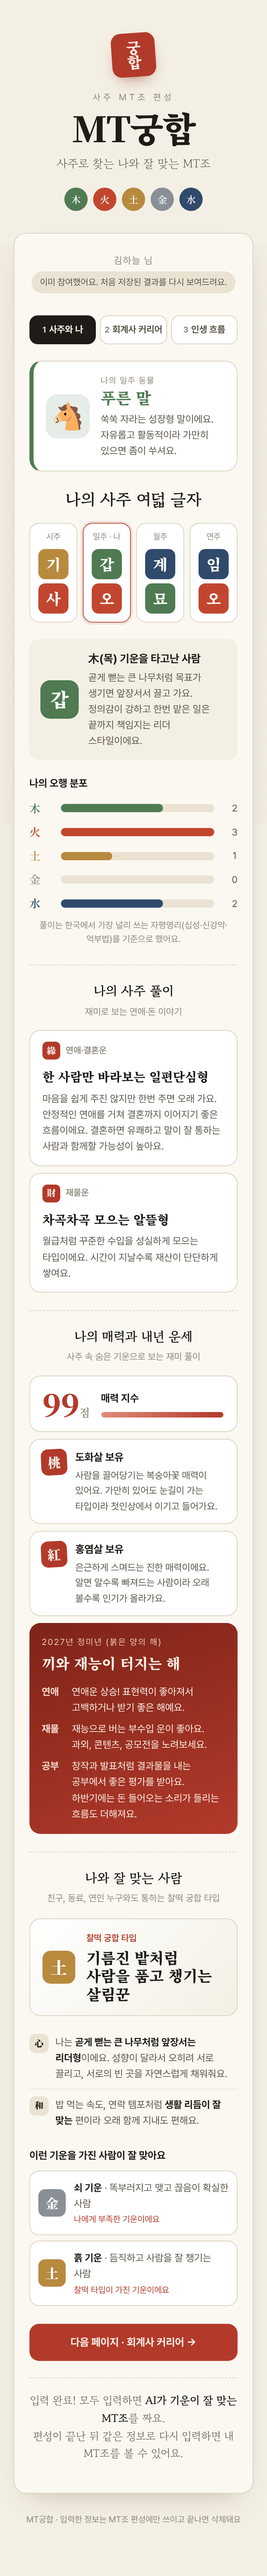
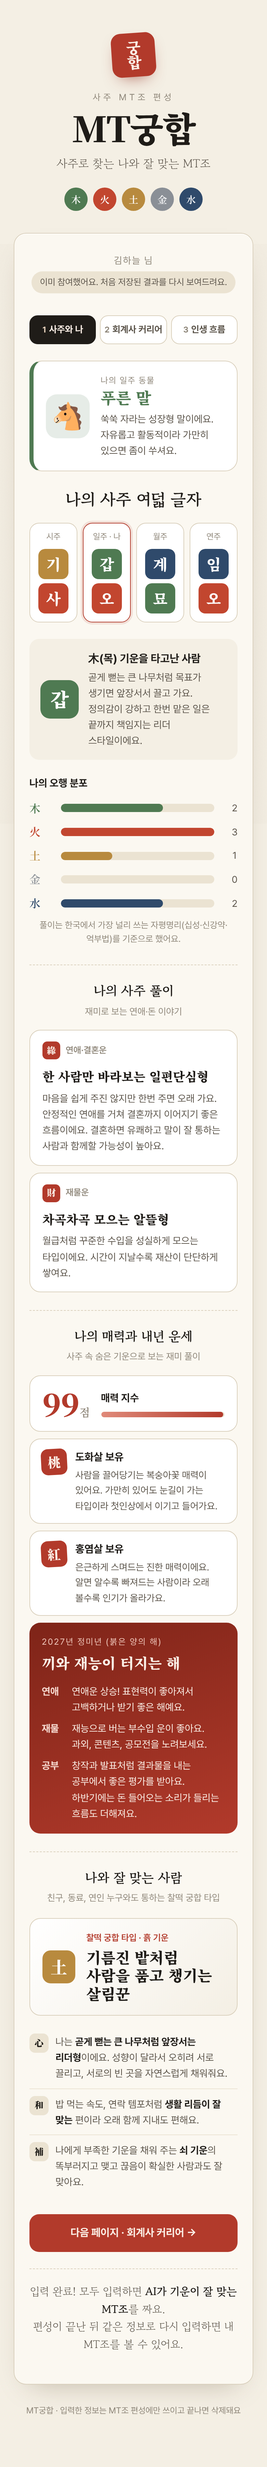
'나와 잘 맞는 사람'과 '이런 기운을 가진 사람' 합치기
찰떡 타입 하나로 보여 주고, 부족한 기운은 겹치지 않을 때만 한 줄 더한다

Claude-Session: https://claude.ai/code/session_012bKZfKrCyZ1atjBTGebht7

Changed region(s): [[0.0923, 0.0, 0.8923, 0.9669], [0.1231, 0.3119, 0.1538, 0.3743], [0.8615, 0.3119, 0.8923, 0.3431]]

diff --git a/public/index.html b/public/index.html
@@ -873,14 +873,15 @@
       const ending = last % 28 ? '이에요' : '예요';
       const theirType = DAY_MASTER_TEXT[m.stem];
 
-      // 잘 맞는 기운: 내게 부족한 기운 → 찰떡 타입의 기운 순으로, 중복 없이. 친구·동료·연인 모두에게 통하도록 연인 기운은 쓰지 않는다.
-      const picks = [];
-      const add = (el, why) => {
-        const found = picks.find((p) => p.el === el);
-        if (found) found.why.push(why); else picks.push({ el, why: [why] });
-      };
-      m.lacking.forEach((el) => add(el, '나에게 부족한 기운이에요'));
-      add(m.stemElement, '찰떡 타입이 가진 기운이에요');
+      // 찰떡 타입 하나로 합쳐 보여 준다. 내게 부족한 기운은 찰떡 타입과 겹치지 않을 때만 한 줄 더한다.
+      // 친구·동료·연인 모두에게 통하도록 연인 기운은 쓰지 않는다.
+      const lacking = m.lacking.filter((el) => el !== m.stemElement);
+      const lackLine = m.lacking.includes(m.stemElement)
+        ? `<li><span class="icon">補</span><span>찰떡 타입이 가진 <b>${ELEMENT_PERSON[m.stemElement][0]} 기운</b>은 마침 나에게 부족한 기운이라, 곁에 있으면 내 빈 곳이 채워져요.</span></li>`
+        : '';
+      const lackOthers = lacking.length
+        ? `<li><span class="icon">補</span><span>${lackLine ? '그 밖에 ' : ''}나에게 부족한 기운을 채워 주는 ${lacking.map((el) => `<b>${ELEMENT_PERSON[el][0]} 기운</b>의 ${ELEMENT_PERSON[el][1]}`).join('이나 ')}과도 잘 맞아요.</span></li>`
+        : '';
 
       document.getElementById('match').innerHTML = `
         <h3>나와 잘 맞는 사람</h3>
@@ -888,21 +889,14 @@
         <div class="match-hero">
           <div class="chars"><span class="char" style="background:${COLOR[m.stemElement]}">${HANJA[m.stemElement]}</span></div>
           <div>
-            <div class="nick">찰떡 궁합 타입</div>
+            <div class="nick">찰떡 궁합 타입 · ${ELEMENT_PERSON[m.stemElement][0]} 기운</div>
             <div class="name">${theirType}</div>
           </div>
         </div>
         <ul class="reasons">
           <li><span class="icon">心</span><span>나는 <b>${myType}</b>${ending}. 성향이 달라서 오히려 서로 끌리고, 서로의 빈 곳을 자연스럽게 채워줘요.</span></li>
           <li><span class="icon">和</span><span>밥 먹는 속도, 연락 템포처럼 <b>생활 리듬이 잘 맞는</b> 편이라 오래 함께 지내도 편해요.</span></li>
-        </ul>
-        <h4 class="pick-title">이런 기운을 가진 사람이 잘 맞아요</h4>
-        <ul class="picks">
-          ${picks.map(({ el, why }) => `
-            <li>
-              <span class="char" style="background:${COLOR[el]}">${HANJA[el]}</span>
-              <span><b>${ELEMENT_PERSON[el][0]} 기운</b> · ${ELEMENT_PERSON[el][1]}<small>${why.join(' · ')}</small></span>
-            </li>`).join('')}
+          ${lackLine}${lackOthers}
         </ul>`;
     }
 
